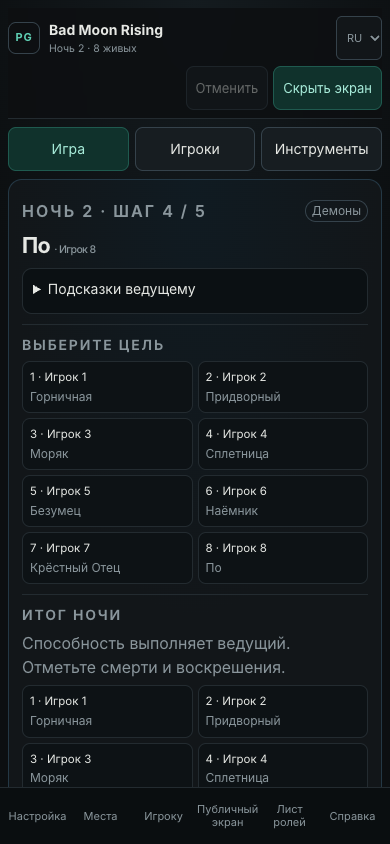
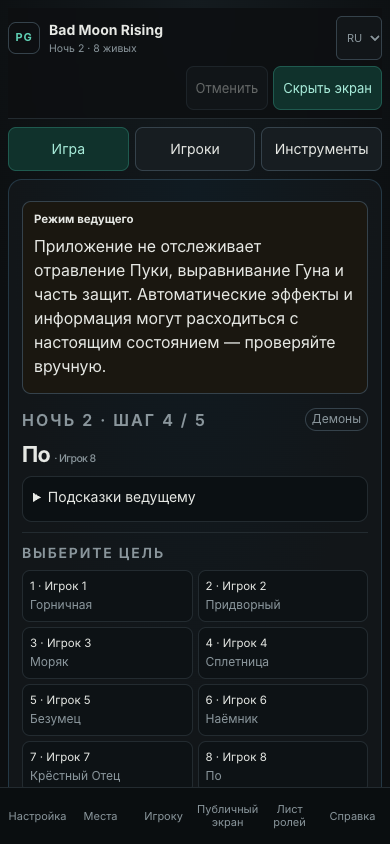
Fix Bad Moon Rising protection edge cases
Tea Lady now finds the nearest living neighbours and ignores neighbour impairment; Sailor and Zombuul use the general ability-impairment check, so poison or drunk removes their protection and an impaired Zombuul records a real first death. Correct the stale limitation docs and warn in the BMR bag, secrets screen, night and day cards that automated effects and information may differ from the true game state. Add regression tests for the three blockers.

diff --git a/js/engine/effects.js b/js/engine/effects.js
@@ -89,11 +89,23 @@ export function bmrDrunkEffect(state, playerId, at = currentAt(state)) {
   )) || null;
 }
 
+// The Tea Lady's neighbours are the nearest living players on each side of
+// her seat, not necessarily the adjacent seats: dead players are skipped.
 function neighbourPair(state, playerId) {
-  const ids = state.order;
-  const at = ids.indexOf(String(playerId));
-  if (at === -1 || ids.length < 3) return [];
-  return [ids[(at - 1 + ids.length) % ids.length], ids[(at + 1) % ids.length]];
+  const ids = (state.order || []).map(String);
+  const seat = ids.indexOf(String(playerId));
+  if (seat === -1) return [];
+  const nearest = (direction) => {
+    for (let step = 1; step < ids.length; step += 1) {
+      const id = ids[(seat + direction * step + ids.length * step) % ids.length];
+      const player = playerById(state, id);
+      if (player && player.alive) return id;
+    }
+    return null;
+  };
+  const before = nearest(-1);
+  const after = nearest(1);
+  return [...new Set([before, after].filter(Boolean))];
 }
 
 function teaLadyProtects(state, targetId, at) {
@@ -105,14 +117,13 @@ function teaLadyProtects(state, targetId, at) {
   if (!teaLady) return null;
   const neighbours = neighbourPair(state, teaLady.id);
   if (!neighbours.includes(String(targetId))) return null;
+  // A drunk or poisoned neighbour still counts as good: only their alignment
+  // matters for the Tea Lady. The Tea Lady herself must not be impaired.
   const bothGood = neighbours.every((id) => {
     const player = playerById(state, id);
-    return player && player.alive && !isImpaired(state, id, at)
-      && player.team !== "evil";
+    return player && player.alive && player.team === "good";
   });
   if (!bothGood) return null;
-  const target = playerById(state, targetId);
-  if (!target || target.team === "evil") return null;
   return "tea-lady";
 }
 
@@ -123,12 +134,13 @@ export function bmrCannotDie(state, playerId, at = currentAt(state), context = {
   const bypass = context.bypassProtection === true;
   const sober = !isImpaired(state, playerId, at);
   // The Zombuul's first death is replaced, not prevented, so even an Assassin
-  // cannot take it. Every other protection is bypassed by the Assassin.
-  if (player.roleId === "zombuul" && !(player.used && player.used.zombuul)) return "zombuul";
+  // cannot take it while the ability works. Every other protection is bypassed
+  // by the Assassin.
+  if (player.roleId === "zombuul" && sober && !(player.used && player.used.zombuul)) return "zombuul";
   if (bypass) return null;
   if (player.roleId === "fool" && sober && !(player.used && player.used.fool)) return "fool";
   if (player.roleId === "soldier" && sober && (cause === "demon" || cause === "ability")) return "soldier";
-  if (player.roleId === "sailor" && !bmrDrunkEffect(state, playerId, at)) return "sailor";
+  if (player.roleId === "sailor" && sober) return "sailor";
   if (teaLadyProtects(state, playerId, at)) return "tea-lady";
   const innkeeper = state.effects.find((effect) => (
     effect.kind === "protected"

diff --git a/js/table.js b/js/table.js
@@ -18,6 +18,7 @@ import {
   skipStep, startNight, stepProgress, useSlayer, gossipStatement, moonchildChoice, recordBmrOutcome
 } from "./engine.js";
 import { livingPlayers, orderedPlayers, playerById } from "./model.js";
+import { isBmrScript } from "./rules.js";
 
 let root = null;
 let abort = null;
@@ -472,6 +473,14 @@ function applyGiven(info, raw, kind) {
   return info;
 }
 
+function bmrWarningMarkup() {
+  if (!isBmrScript(state.script)) return "";
+  return `<div class="host-alert bmr-warning">
+    <b>${esc(t("bmrHostWarningTitle"))}</b>
+    <p>${esc(t("bmrHostWarning"))}</p>
+  </div>`;
+}
+
 function nightCard() {
   const step = currentStep(state);
   const progress = stepProgress(state);
@@ -480,6 +489,7 @@ function nightCard() {
   if (pending) {
     return `
       <section class="host-card is-night">
+        ${bmrWarningMarkup()}
         <p class="label">${esc(t("pendingHeir"))}</p>
         <h1>${esc(t("pendingHeirText"))}</h1>
         <div class="host-targets">
@@ -495,6 +505,7 @@ function nightCard() {
   if (!step) {
     return `
       <section class="host-card is-night">
+        ${bmrWarningMarkup()}
         <p class="label">${esc(t("night"))} ${state.night.number}</p>
         <h1>${state.night.queue.length ? t("ui.allDone") : t("noWake")}</h1>
         <p>${esc(t("check"))}: ${progress.done} / ${progress.total}.</p>
@@ -531,6 +542,7 @@ function nightCard() {
 
   return `
     <section class="host-card is-night">
+      ${bmrWarningMarkup()}
       <div class="host-step-top">
         <p class="label">${esc(t("night"))} ${state.night.number} · ${esc(t("step"))} ${progress.done + 1} / ${progress.total}</p>
         ${role ? `<span class="host-chip">${esc(teamText(role.team))}</span>` : ""}
@@ -700,6 +712,7 @@ function dayCard() {
 
   return `
     <section class="host-card is-day">
+      ${bmrWarningMarkup()}
       <p class="label">${esc(t("day"))} ${day.number}</p>
       <h1>${esc(t("dawn"))}</h1>
       <div class="host-morning">

diff --git a/js/locales/ru.js b/js/locales/ru.js
@@ -503,6 +503,9 @@ export default {
   "system.info": "Информация (приспешники и демон)",
   "bmrHelpNote": "Bad Moon Rising: порядок ночи и смерти ведёт приложение, способности выполняет ведущий. Правила ниже описывают общий ход игры.",
 
+  "bmrHostWarningTitle": "Режим ведущего",
+  "bmrHostWarning": "Приложение не отслеживает отравление Пуки, выравнивание Гуна и часть защит. Автоматические эффекты и информация могут расходиться с настоящим состоянием — проверяйте вручную.",
+
   "bmrSecretsTitle": "Секреты Bad Moon Rising",
   "bmrSecretsHint": "Безумец получает показанную роль, Крёстный Отец меняет число Изгоев. Остальные секреты ведущий ведёт на столе.",
   "bmrGodfather": "Крёстный Отец",

diff --git a/js/bag.js b/js/bag.js
@@ -2,7 +2,7 @@ import { esc, modalFocus } from "./ui.js";
 import { state, save, run } from "./store.js";
 import { roleById as catalogRoleById, imageFor, allRoles } from "./roles.js";
 import {
-  COMPOSITION, RECOMMENDED, TEAMS, bagCounts, compositionFor, isGoodRole,
+  COMPOSITION, RECOMMENDED, TEAMS, bagCounts, compositionFor, isBmrScript, isGoodRole,
   randomBag, requiredBluffs, roleLabel, roleTeam, teamLabel
 } from "./rules.js";
 import { OFFICIAL_SCRIPTS, badMoonRisingScript, parseScript, troubleBrewingScript } from "./scripts.js";
@@ -594,6 +594,8 @@ export function mount(root) {
             ${lunaticMarkup()}
             ${!godfatherMarkup() && !lunaticMarkup()
               ? `<p class="bag-note">${esc(t("none"))}</p>` : ""}
+            ${isBmrScript(state.script)
+              ? `<p class="bag-note bmr-warning">${esc(t("bmrHostWarning"))}</p>` : ""}
           </section>
 
           <section class="setup-block setup-final">

diff --git a/js/locales/az.js b/js/locales/az.js
@@ -503,6 +503,9 @@ export default {
   "system.info": "Məlumat (nökərlər və demon)",
   "bmrHelpNote": "Bad Moon Rising: gecə sırasını və ölümləri tətbiq aparır, qabiliyyətləri hekayəçi icra edir. Aşağıdakı qaydalar ümumi gedişatı əhatə edir.",
 
+  "bmrHostWarningTitle": "Hekayəçi rejimi",
+  "bmrHostWarning": "Tətbiq Pukka zəhərini, Qun uyğunluğunu və bəzi qorunmaları izləmir. Avtomatik effektlər və məlumat həqiqi oyun vəziyyətindən fərqlənə bilər — əl ilə yoxlayın.",
+
   "bmrSecretsTitle": "Bad Moon Rising sirləri",
   "bmrSecretsHint": "Dəliyə Demon göstərilir, Xaç atası Cin sayını dəyişir. Qalan sirləri hekayəçi masada aparır.",
   "bmrGodfather": "Xaç atası",

diff --git a/js/locales/en.js b/js/locales/en.js
@@ -503,6 +503,9 @@ export default {
   "system.info": "Information (Minions and Demon)",
   "bmrHelpNote": "Bad Moon Rising: the app tracks night order and deaths; the Storyteller resolves the abilities. The rules below cover the general flow.",
 
+  "bmrHostWarningTitle": "Host-adjudicated mode",
+  "bmrHostWarning": "The app does not track Pukka poison, Goon alignment or every protection. Automated effects and information can differ from the true game state — verify them manually.",
+
   "bmrSecretsTitle": "Bad Moon Rising secrets",
   "bmrSecretsHint": "The Lunatic is shown a Demon; the Godfather shifts the Outsider count. The Storyteller tracks the rest at the table.",
   "bmrGodfather": "Godfather",

diff --git a/js/engine/death.js b/js/engine/death.js
@@ -3,7 +3,7 @@ import { isBmrScript, roleLabel, roleTeam } from "../rules.js";
 import { livingPlayers, nowIso, orderedPlayers, playerById } from "../model.js";
 
 import { dayAt, currentAt, addLog } from "./context.js";
-import { isImpaired, protectionFor, soldierSafe, mayorRedirects, bmrCannotDie, bmrDrunkEffect } from "./effects.js";
+import { isImpaired, protectionFor, soldierSafe, mayorRedirects, bmrCannotDie } from "./effects.js";
 import { stepKey, demonChangePending } from "./night.js";
 
 const DEMON_REASONS = {

diff --git a/js/secrets.js b/js/secrets.js
@@ -36,6 +36,10 @@ function renderBmrSecrets(root, players) {
       <p class="label">${esc(t("secrets"))}</p>
       <h1>${esc(t("bmrSecretsTitle"))}</h1>
       <p class="host-muted">${esc(t("bmrSecretsHint"))}</p>
+      <div class="host-alert bmr-warning">
+        <b>${esc(t("bmrHostWarningTitle"))}</b>
+        <p>${esc(t("bmrHostWarning"))}</p>
+      </div>
       <div class="host-section">
         <span class="label">${esc(t("bmrGodfather"))}</span>
         <p>${has("godfather")

diff --git a/sw.js b/sw.js
@@ -1,5 +1,5 @@
 // Generated by scripts/build-offline.mjs; do not edit manually.
-const CACHE = "pg-static-e1610e2efc7268e3";
+const CACHE = "pg-static-e212bff3ae6b937b";
 const CACHE_PREFIX = "pg-static-";
 const ASSETS = [
   "./",
@@ -386,6 +386,7 @@ const ASSETS = [
   "js/bag.js",
   "js/demo.js",
   "js/engine.js",
+  "js/engine/bmr.js",
   "js/engine/context.js",
   "js/engine/corrections.js",
   "js/engine/day.js",

diff --git a/docs/rules-sources.md b/docs/rules-sources.md
@@ -145,9 +145,13 @@ supports the resulting low-Townsfolk compositions, including 1 Townsfolk and
 
 ## Known limitations
 
-- Only Trouble Brewing rules are implemented. The scenario picker lists Bad
-  Moon Rising and Sects and Violets, but they stay disabled until their roles
-  and rules exist. Custom scripts must use Trouble Brewing roles.
+- Trouble Brewing and Bad Moon Rising rules are implemented. Sects and Violets
+  stays disabled until its roles and rules exist. Custom scripts must be all
+  Trouble Brewing or all Bad Moon Rising; mixed editions are rejected.
+- Bad Moon Rising is host-adjudicated. The engine does not track Pukka poison,
+  Goon alignment or every protection; automated effects and information can
+  differ from the true game state, so the host must verify them manually. The
+  night/day cards and the BMR secrets screen show this warning.
 - Custom scripts can be imported from a JSON file, a URL or the clipboard. URL
   import depends on the host allowing CORS; the app is otherwise offline-first.
 - Travellers and Fabled are not part of the setup flow, although the role
@@ -237,6 +241,9 @@ deaths and resurrections in the night card's outcome panel.
 - The Pukka's poison is tracked by the Storyteller, not as an engine effect;
   the app records the Pukka's target and the resulting death but does not
   automatically make that player drunk or poisoned for later abilities.
+  Automated effects and information can therefore differ from the true game
+  state; the BMR night/day cards and secrets screen carry a visible warning,
+  and the host must verify them manually.
 - The Goon's alignment change, the Courtier's exact three-night drunk window
   and the Sailor's drunk recipient are host choices with partial UI support;
   the engine stores the chosen target and drunk effect where the role step

diff --git a/AGENTS.md b/AGENTS.md
@@ -114,7 +114,7 @@ Documentation precedence: use `SPEC.md`, `docs/rules-sources.md`, the current so
 ## Testing & QA
 
 - Framework: `node:test`. Tests are DOM-free and construct state with `createGame()`, `dealGame()` and `autoSecrets()`.
-- `js/engine.test.mjs` contains the main behavioral suite; `js/bmr.test.mjs` covers Bad Moon Rising; `js/night.test.mjs` covers the legacy `night.js` helper; `js/scripts.test.mjs` covers script parsing, custom-script bags and schema v4; `js/offline-worker.test.mjs` covers the generated worker. The CI runs all seven `*.test.mjs` files: 96 tests total. `scripts/browser-check.mjs` runs the Playwright regression checks on demand and in pull-request CI.
+- `js/engine.test.mjs` contains the main behavioral suite; `js/bmr.test.mjs` covers Bad Moon Rising; `js/night.test.mjs` covers the legacy `night.js` helper; `js/scripts.test.mjs` covers script parsing, custom-script bags and schema v4; `js/offline-worker.test.mjs` covers the generated worker. The CI runs all seven `*.test.mjs` files: 103 tests total. `scripts/browser-check.mjs` runs the Playwright regression checks on demand and in pull-request CI.
 - Test names are complete behavioral sentences. Assert on state, counts, phases, roles and winner reason codes; do not assert random generated IDs.
 - Use `make(assignment, options)` in `js/engine.test.mjs` for new engine fixtures. Use `toDay`, `appoint`, `completeRole`, `completeSystem` and `skipNight` for setup.
 - The official at-least-half rule is `executionThreshold(livingCount) = ceil(living / 2)`. Six living players need three votes; preserve even/odd regression cases.
